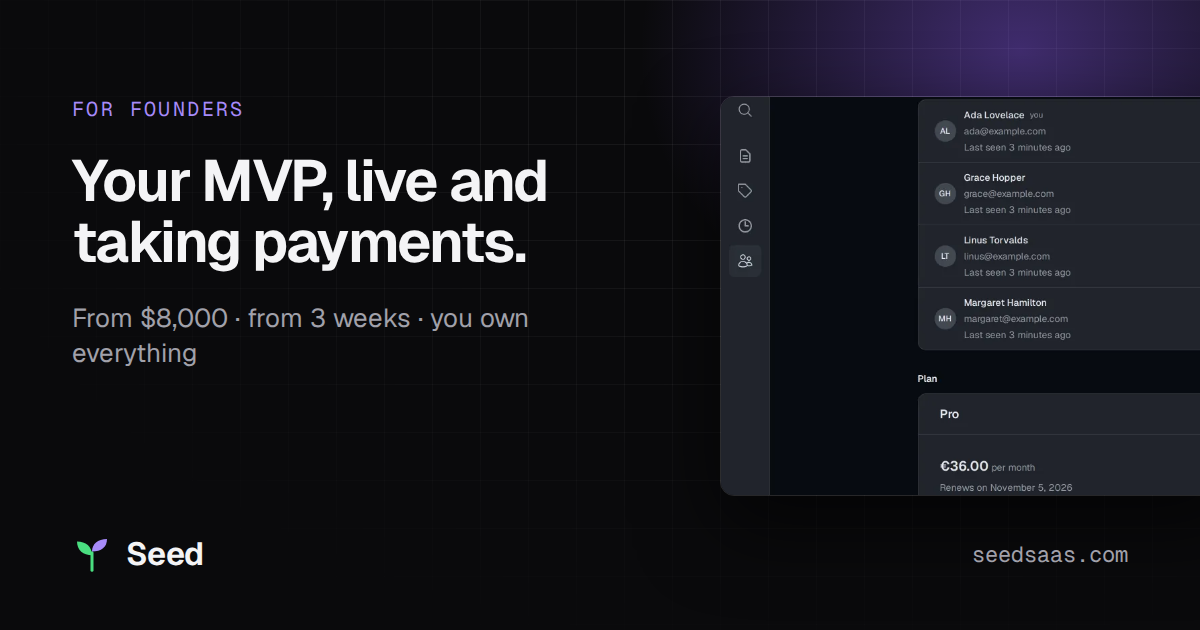
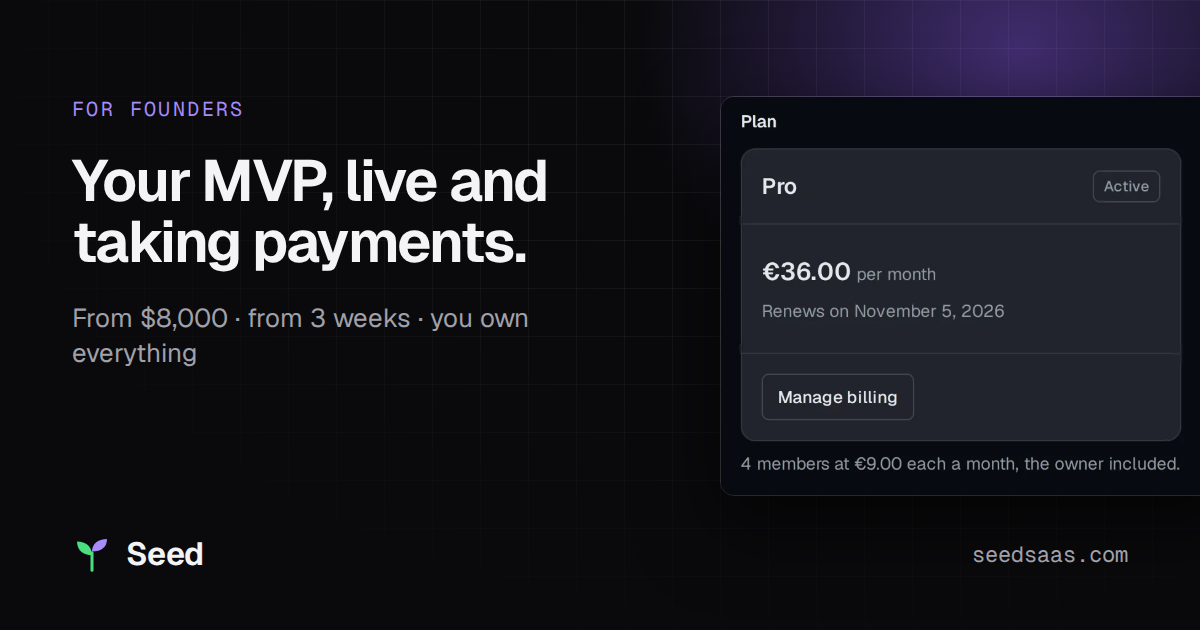
fix(mpa): show the whole plan in the billing card and og/mvp
The billing card and og/mvp now crop a phone-width capture of the plan,
so the panel, its Active badge, Manage billing and the footnote fit at
near their real size. The teams picture takes the realtime card's height
from lg on, so both cards' links line up.

Changed region(s): [[0.5858, 0.1508, 1.0, 0.7841]]

diff --git a/apps/mpa/routes/index.tsx b/apps/mpa/routes/index.tsx
@@ -212,19 +212,23 @@ function Hero({ demoHref }: { demoHref: string }): JSX.Element {
 }
 
 /**
- * The plan panel of the billing screenshot, drawn a little above its real size so its text stays
- * legible in a narrow card: the image is wider than the card and shifted so the crop starts at the
- * "Plan" heading, below the member list, and ends with the screenshot.
+ * The plan of the phone billing screenshot, from the empty canvas above its "Plan" heading to the
+ * canvas below its footnote: at most 390 px wide, so the card shows it whole at about its real size.
+ * It sits in the middle of the card's picture area on the same canvas colour.
  */
 function BillingCrop(): JSX.Element {
   return (
-    <div class="relative h-94 overflow-hidden">
-      <div class="absolute -left-[309px] -top-[511px] w-[1420px] max-w-none">
-        <Shot
-          name="billing"
-          alt="A group's plan in the Seed app: Pro, active, €36.00 a month for 4 members at €9.00 each, with a button to manage billing."
-          sizes="1420px"
-        />
+    <div class="flex h-94 items-center overflow-hidden bg-canvas">
+      <div class="aspect-[390/364] w-full max-w-[390px] overflow-hidden">
+        {/* 412 to 776 px down the 390×844 screenshot, clear of the borders above and below. */}
+        <div class="-translate-y-[48.815%]">
+          <Shot
+            name="billing"
+            kind="mobile"
+            alt="A group's plan in the Seed app: Pro, active, €36.00 a month with its renewal date, a button to manage billing, and a note that 4 members pay €9.00 each a month, the owner included."
+            sizes="390px"
+          />
+        </div>
       </div>
     </div>
   )
@@ -296,13 +300,17 @@ function Features(): JSX.Element {
             href="/features#teams"
             wide
             media={
-              <div class="aspect-[1280/470] overflow-hidden">
-                {/* The member list only: the plan below it is the billing card's picture. */}
-                <Shot
-                  name="group-members"
-                  alt="The members of a group, each with their role, a button to invite people, and one member's menu open: Make Viewer, Make Admin, Remove from group."
-                  sizes="(min-width: 1024px) 640px, 100vw"
-                />
+              <div class="aspect-[1280/470] overflow-hidden lg:flex lg:aspect-auto lg:h-94 lg:justify-center lg:bg-canvas">
+                {/* Members only, no plan; from lg on, as tall as the realtime card beside it. */}
+                <div class="lg:w-[640px] lg:shrink-0 lg:overflow-hidden">
+                  <div class="lg:w-[1024px] lg:-translate-x-[221.6px]">
+                    <Shot
+                      name="group-members"
+                      alt="The members of a group, each with their role, a button to invite people, and one member's menu open: Make Viewer, Make Admin, Remove from group."
+                      sizes="(min-width: 1024px) 1024px, 100vw"
+                    />
+                  </div>
+                </div>
               </div>
             }
           >

diff --git a/apps/mpa/screenshots/capture.ts b/apps/mpa/screenshots/capture.ts
@@ -114,6 +114,8 @@ interface OgCard {
   shot: string
   /** How far down the screenshot its frame starts, in the card's pixels. */
   top?: number
+  /** How wide the screenshot is drawn, in the card's pixels: 860 unless set. */
+  width?: number
 }
 
 const OG_CARDS: OgCard[] = [
@@ -150,10 +152,12 @@ const OG_CARDS: OgCard[] = [
     eyebrow: "For founders",
     title: "Your MVP, live and taking payments.",
     sub: "From $8,000 · from 3 weeks · you own everything",
-    shot: "billing-dark-1280.webp",
-    // The member list and the plan with its price. The frame shows the screenshot from just above
-    // the member list to just below the renewal date: both edges fall between rail icons.
-    top: 46,
+    // The phone picture, which has no rail: the plan alone, near its real size.
+    shot: "billing-dark-780.webp",
+    width: 480,
+    // The frame starts 531 card pixels down the picture (its 431st CSS pixel), in the empty
+    // canvas above the "Plan" heading, and ends below the footnote, above the tab bar.
+    top: 531,
   },
   {
     file: "subscribe",
@@ -533,15 +537,21 @@ const SCREENS: Screen[] = [
   },
   {
     name: "billing",
-    forms: ["desktop"],
+    forms: ["desktop", "mobile"],
     async open(page, seeded) {
       await gotoApp(
         page,
         `/groups/${seeded.groupId}`,
         page.locator("[data-e2e=billing-plan][data-plan=pro]"),
       )
-      // From the members down to the plan, which ends the page.
-      await scrollToTop(page.locator("[data-e2e=group-section-members]"))
+      // On a desktop, from the members down to the plan, which ends the page. On a phone, the
+      // plan alone: the home page's billing card crops it at close to its real size.
+      const mobile = page.viewportSize()!.width < 768
+      await scrollToTop(
+        page.locator(
+          mobile ? "[data-e2e=group-section-billing]" : "[data-e2e=group-section-members]",
+        ),
+      )
     },
   },
   {
@@ -808,6 +818,7 @@ async function renderOgImages(browser: Browser, contexts: BrowserContext[]): Pro
           sub: card.sub,
           shot: card.shot ? `/static/shots/${card.shot}` : "",
           top: String(card.top ?? 0),
+          width: String(card.width ?? 860),
         })
         await page.goto(`${origin}/screenshots/og.html?${query}`)
         await page.evaluate(() => document.fonts.ready)

diff --git a/apps/mpa/screenshots/og.html b/apps/mpa/screenshots/og.html
@@ -1,8 +1,8 @@
 <!doctype html>
 <!--
   The Open Graph card of one website page, 1200×630. capture.ts opens it with the words in the
-  query string (eyebrow, title, sub, shot, top) and photographs it. Self-contained: its fonts come from
-  the pinned geist package that capture.ts unpacks, and nothing loads from outside.
+  query string (eyebrow, title, sub, shot, top, width) and photographs it. Self-contained: its
+  fonts come from the pinned geist package that capture.ts unpacks, and nothing loads from outside.
 -->
 <html lang="en">
   <head>
@@ -168,6 +168,7 @@
       image.onerror = () => document.body.setAttribute("data-error", shot)
       // How far down the picture the frame starts, in its own pixels.
       image.style.marginTop = `-${Number(query.get("top") ?? 0)}px`
+      image.style.width = `${Number(query.get("width") ?? 860)}px`
       image.src = shot
     } else {
       ready()

diff --git a/apps/mpa/screenshots/README.md b/apps/mpa/screenshots/README.md
@@ -42,7 +42,7 @@ A screen that fails is listed at the end and the run exits 1; the others are sti
 | `notes`            | desktop and mobile   | 1280, 640 / 780, 390 |
 | `profile-security` | desktop              | 1280, 640            |
 | `group-members`    | desktop              | 1280, 640            |
-| `billing`          | desktop              | 1280, 640            |
+| `billing`          | desktop and mobile   | 1280, 640 / 780, 390 |
 | `notifications`    | desktop              | 1280, 640            |
 | `activity`         | desktop              | 1280, 640            |
 | `admin-overview`   | desktop (admin host) | 1280, 640            |
